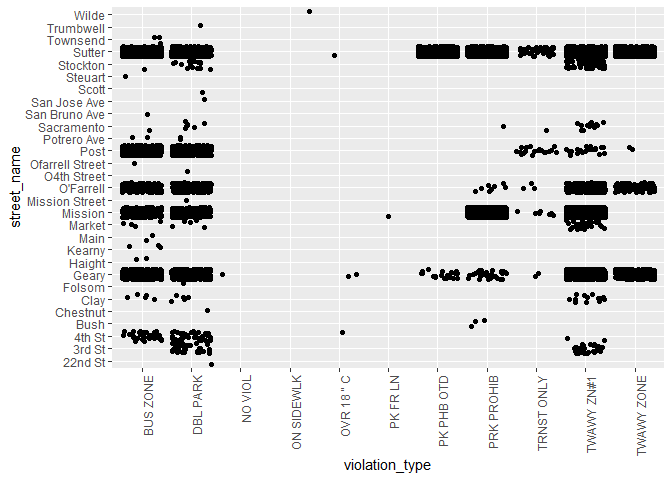
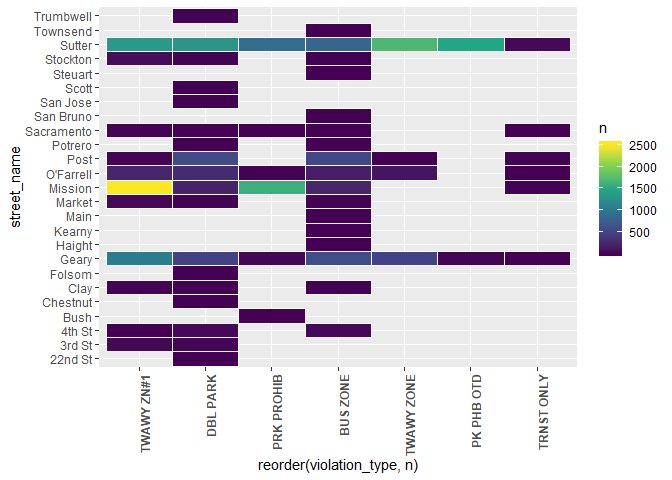
Package string cleaning code into a function

diff --git a/muni_transitLanes/muni_transitLanes.md b/muni_transitLanes/muni_transitLanes.md
@@ -4,6 +4,7 @@ Anthony Chau
 07-10-2018
 
 ``` r
+# Use read_csv from readr package (Faster, more reproducible, tibbles)
 muni <- read.csv('muni_transitLanes.csv', strip.white = TRUE)
 muni <- as.data.frame(muni)
 
@@ -20,7 +21,7 @@ First, we remove the Citation.Issue.Month column from the data frame since the m
 ``` r
 muni$Citaton.Issue.Month <- NULL
 muni$Last.Edited.Date <- NULL
-muni$Ticket.Number <-  NULL
+muni$Ticket.Number <- NULL
 ```
 
 Check for Missing Values
@@ -28,6 +29,7 @@ Check for Missing Values
 
 ``` r
 # Check for NA values for each column
+
 apply(muni, 2, function(x) any(is.na(x)))
 ```
 
@@ -41,6 +43,9 @@ apply(muni, 2, function(x) any(is.na(x)))
     ##                FALSE                FALSE                FALSE 
     ##   Suspend.Until.Date     Disposition.Code                 Geom 
     ##                FALSE                FALSE                FALSE
+
+Date and Time
+=============
 
 Now, let's focus our attention on the date and time data within this dataset.
 
@@ -62,13 +67,52 @@ muni$Citation.Issue.Date <- NULL
 muni$Citation.Issue.Time <- NULL
 ```
 
-We want to collaspe observations in the location column to only record a unique factor level for a street name.
+Extract unique street names from location column
+================================================
+
+We create a new column which consists of only the street name where the violation occured. In the original datset, the location column provided both the street number and street name. As a result, we have an extremely high amount of factor levels for the location column. Hence, we will condense down the number of factor levels to the total number of unique street names.
 
 ``` r
 library(stringr)
 ```
 
     ## Warning: package 'stringr' was built under R version 3.4.4
+
+``` r
+get_streetName <-  function(df, location_column){
+  location_column <- as.character(location_column)
+  splitLocation <- strsplit(location_column, "(?<=\\d)\\b", perl=T)
+  y <- do.call(rbind, splitLocation)
+  y <- as.data.frame(y)
+  colnames(y) <- c('street_number', 'street_name')
+  df$street_name <- y$street_name
+  return(unique(df$street_name))
+}
+
+get_streetName(muni, muni$Location)
+```
+
+    ##  [1]  O'FARRELL         GEARY             OFARRELL        
+    ##  [4]  MISSION           POST ST           GEARY ST        
+    ##  [7]  3RD ST            SUTTER            O'FARRELL ST.   
+    ## [10]  SACRAMENTO        MISSION ST.       MAIN            
+    ## [13]  - 3RD ST.         CLAY              STOCKTON        
+    ## [16]  MISSION ST        POST              4TH ST.         
+    ## [19]  MARKET            O'FARRELL STREET  GEARY ST.       
+    ## [22]  OFALLELL          4TH ST            OFARRELL ST     
+    ## [25]  SUTTER ST         04TH ST           STOCKTON ST     
+    ## [28]  O'FARRELL ST      04TH  ST          - O'FARRELL ST  
+    ## [31]  SACRAMENTO ST     03RD ST           - 4TH ST        
+    ## [34]  -4TH ST           - GEARY ST        O4TH STREET     
+    ## [37] -MARKET ST         POTRERO AVE       MISSION STREET  
+    ## [40]  MARKET ST         GEARY BLVD        SAN BRUNO AVE   
+    ## [43]  22ND ST           CLAY ST           HAIGHT ST       
+    ## [46]  TOWNSEND ST       SAN JOSE AVE      STEUART ST      
+    ## [49]  SCOTT ST          CHESTNUT ST       KEARNY ST       
+    ## [52]  STOCKTON TUNL     FOLSOM            BUSH ST         
+    ## [55]  TRUMBWELL         WILDE             3RD ST.         
+    ## [58]  KEARNY            SUTTER ST.      
+    ## 59 Levels: -MARKET ST  - 3RD ST.  - 4TH ST  - GEARY ST ...  WILDE
 
 ``` r
 muni$Location <- as.character(muni$Location)
@@ -143,6 +187,8 @@ unique(muni$street_name)
 Clean up street names
 =====================
 
+In the newly created street\_name column, we remove unnecessary puncation or white space within the different factor levels and remove the street type from each factor level. Lastly, we convert each street name to title style capitalization.
+
 ``` r
 # To extend functionality, can make it so that any street type will be converted to 
 # empty string
@@ -166,8 +212,6 @@ locationName_clean <- function(location){
 
 muni$street_name <- locationName_clean(muni$street_name)
 
-# bug -> need to apply function twice to acheive desired result
-
 # Check
 unique(muni$street_name)
 ```
@@ -181,6 +225,11 @@ unique(muni$street_name)
     ## [31] "Wilde"
 
 Clean up minor spelling mistakes
+================================
+
+Some of the street names in the dataset are misspelled. We manually correct these mistakes by reassigning observations with misspelling to the correct spelling.
+
+For this analysis, I have decided to remove the street type indicator from non-duplicate street names. Beacuse of this, only numerical street names, such as 4th or 22nd, have street type indicators.
 
 ``` r
 # Clean up spelling and duplicates of street names
@@ -198,7 +247,6 @@ muni$street_name[muni$street_name %in% c("Po")] <- "Post"
 
 # Change street_name to factor variable
 muni$street_name <- factor(muni$street_name)
-
 
 # Check
 unique(muni$street_name)
@@ -219,17 +267,6 @@ library(dplyr)
 
     ## Warning: package 'dplyr' was built under R version 3.4.4
 
-    ## 
-    ## Attaching package: 'dplyr'
-
-    ## The following objects are masked from 'package:stats':
-    ## 
-    ##     filter, lag
-
-    ## The following objects are masked from 'package:base':
-    ## 
-    ##     intersect, setdiff, setequal, union
-
 ``` r
 library(ggplot2)
 ```
@@ -241,21 +278,6 @@ library(plotly)
 ```
 
     ## Warning: package 'plotly' was built under R version 3.4.4
-
-    ## 
-    ## Attaching package: 'plotly'
-
-    ## The following object is masked from 'package:ggplot2':
-    ## 
-    ##     last_plot
-
-    ## The following object is masked from 'package:stats':
-    ## 
-    ##     filter
-
-    ## The following object is masked from 'package:graphics':
-    ## 
-    ##     layout
 
 Exploring Transit Lane Violation Types
 
@@ -334,7 +356,7 @@ streetBarPlot <- ggplot(data=muni, aes(x=street_name)) +
 streetBarPlot
 ```
 
-![](muni_transitLanes_files/figure-markdown_github/unnamed-chunk-13-1.png)
+![](muni_transitLanes_files/figure-markdown_github/unnamed-chunk-9-1.png)
 
 We find that most transit lane violations are concentrated on a few streets: Geary, Market, Mission, Folsom, Stockton, and Sutter. Almost all of these pass through downtown San Francisco, which is plausible since many bus services aggregate in downtown.
 
@@ -359,9 +381,9 @@ violations <- ggplot(data=muni, aes(x=violation_type)) +
 violations
 ```
 
-![](muni_transitLanes_files/figure-markdown_github/unnamed-chunk-14-1.png)
+![](muni_transitLanes_files/figure-markdown_github/unnamed-chunk-10-1.png)
 
-Most violation types are towaway zone and towaway zone \#1. There are few on sidewalk and OVR 18\*C violations. As there are few no violations. Need more information on how specific violation types are defined.
+Most violation types are towaway zone and towaway zone \#1. There are few observations of the on sidewalk, OVR 18\*C violations, and no violation type. Need more information on how specific violation types are defined.
 
 Violations - Count Plot
 
@@ -374,7 +396,7 @@ violationsCountPlot <- ggplot(data=muni)+
 violationsCountPlot
 ```
 
-![](muni_transitLanes_files/figure-markdown_github/unnamed-chunk-15-1.png)
+![](muni_transitLanes_files/figure-markdown_github/unnamed-chunk-11-1.png)
 
 Violations by Street Name - Tile Plot (possibly do a heat map with d3heatmap or heatmaply)
 
@@ -395,7 +417,7 @@ muni %>%
           panel.border = element_blank())
 ```
 
-![](muni_transitLanes_files/figure-markdown_github/unnamed-chunk-16-1.png)
+![](muni_transitLanes_files/figure-markdown_github/unnamed-chunk-12-1.png)
 
 Heatmap - Plotly
 
@@ -414,7 +436,7 @@ p
 
 <!--html_preserve-->
 
-<script type="application/json" data-for="htmlwidget-c725baf449171f9e59bf">{"x":{"visdat":{"4b8c11663b50":["function () ","plotlyVisDat"]},"cur_data":"4b8c11663b50","attrs":{"4b8c11663b50":{"z":[[0,1,0,0,0,0,0,0,0,0,0],[0,30,0,0,0,0,0,0,0,35,0],[34,42,0,0,0,0,0,0,0,2,0],[0,0,0,0,0,0,0,3,0,0,0],[0,1,0,0,0,0,0,0,0,0,0],[5,6,0,0,0,0,0,0,0,13,0],[0,1,0,0,0,0,0,0,0,0,0],[598,488,0,0,0,0,20,30,2,1054,498],[2,0,0,0,0,0,0,0,0,0,0],[3,0,0,0,0,0,0,0,0,0,0],[2,0,0,0,0,0,0,0,0,0,0],[4,6,0,0,0,0,0,0,0,34,0],[228,213,0,0,0,0,0,1599,8,2513,0],[180,290,0,0,0,0,0,8,3,225,110],[541,573,0,0,0,0,0,0,19,20,2],[2,2,0,0,0,0,0,0,0,0,0],[1,7,0,0,0,0,0,1,1,13,0],[1,0,0,0,0,0,0,0,0,0,0],[0,1,0,0,0,0,0,0,0,0,0],[0,1,0,0,0,0,0,0,0,0,0],[1,0,0,0,0,0,0,0,0,0,0],[1,15,0,0,0,0,0,0,0,58,0],[827,1317,0,0,0,0,1478,894,37,1367,1695],[3,0,0,0,0,0,0,0,0,0,0],[0,1,0,0,0,0,0,0,0,0,0],[0,0,0,0,0,0,0,0,0,0,0]],"x":["22nd St","3rd St","4th St","Bush","Chestnut","Clay","Folsom","Geary","Haight","Kearny","Main","Market","Mission","O'Farrell","Post","Potrero","Sacramento","San Bruno","San Jose","Scott","Steuart","Stockton","Sutter","Townsend","Trumbwell","Wilde"],"y":["BUS ZONE","DBL PARK","NO VIOL","ON SIDEWLK","OVR 18 \" C","PK FR LN","PK PHB OTD","PRK PROHIB","TRNST ONLY","TWAWY ZN#1","TWAWY ZONE"],"alpha_stroke":1,"sizes":[10,100],"spans":[1,20],"type":"heatmap"}},"layout":{"margin":{"b":40,"l":60,"t":25,"r":10},"xaxis":{"domain":[0,1],"automargin":true,"title":[]},"yaxis":{"domain":[0,1],"automargin":true,"title":[]},"scene":{"zaxis":{"title":[]}},"hovermode":"closest","showlegend":false,"legend":{"yanchor":"top","y":0.5}},"source":"A","config":{"modeBarButtonsToAdd":[{"name":"Collaborate","icon":{"width":1000,"ascent":500,"descent":-50,"path":"M487 375c7-10 9-23 5-36l-79-259c-3-12-11-23-22-31-11-8-22-12-35-12l-263 0c-15 0-29 5-43 15-13 10-23 23-28 37-5 13-5 25-1 37 0 0 0 3 1 7 1 5 1 8 1 11 0 2 0 4-1 6 0 3-1 5-1 6 1 2 2 4 3 6 1 2 2 4 4 6 2 3 4 5 5 7 5 7 9 16 13 26 4 10 7 19 9 26 0 2 0 5 0 9-1 4-1 6 0 8 0 2 2 5 4 8 3 3 5 5 5 7 4 6 8 15 12 26 4 11 7 19 7 26 1 1 0 4 0 9-1 4-1 7 0 8 1 2 3 5 6 8 4 4 6 6 6 7 4 5 8 13 13 24 4 11 7 20 7 28 1 1 0 4 0 7-1 3-1 6-1 7 0 2 1 4 3 6 1 1 3 4 5 6 2 3 3 5 5 6 1 2 3 5 4 9 2 3 3 7 5 10 1 3 2 6 4 10 2 4 4 7 6 9 2 3 4 5 7 7 3 2 7 3 11 3 3 0 8 0 13-1l0-1c7 2 12 2 14 2l218 0c14 0 25-5 32-16 8-10 10-23 6-37l-79-259c-7-22-13-37-20-43-7-7-19-10-37-10l-248 0c-5 0-9-2-11-5-2-3-2-7 0-12 4-13 18-20 41-20l264 0c5 0 10 2 16 5 5 3 8 6 10 11l85 282c2 5 2 10 2 17 7-3 13-7 17-13z m-304 0c-1-3-1-5 0-7 1-1 3-2 6-2l174 0c2 0 4 1 7 2 2 2 4 4 5 7l6 18c0 3 0 5-1 7-1 1-3 2-6 2l-173 0c-3 0-5-1-8-2-2-2-4-4-4-7z m-24-73c-1-3-1-5 0-7 2-2 3-2 6-2l174 0c2 0 5 0 7 2 3 2 4 4 5 7l6 18c1 2 0 5-1 6-1 2-3 3-5 3l-174 0c-3 0-5-1-7-3-3-1-4-4-5-6z"},"click":"function(gd) { \n        // is this being viewed in RStudio?\n        if (location.search == '?viewer_pane=1') {\n          alert('To learn about plotly for collaboration, visit:\\n https://cpsievert.github.io/plotly_book/plot-ly-for-collaboration.html');\n        } else {\n          window.open('https://cpsievert.github.io/plotly_book/plot-ly-for-collaboration.html', '_blank');\n        }\n      }"}],"cloud":false},"data":[{"colorbar":{"title":"","ticklen":2,"len":0.5,"lenmode":"fraction","y":1,"yanchor":"top"},"colorscale":[["0","rgba(68,1,84,1)"],["0","rgba(68,1,84,1)"],["0","rgba(68,1,84,1)"],["0","rgba(68,1,84,1)"],["0","rgba(68,1,84,1)"],["0","rgba(68,1,84,1)"],["0","rgba(68,1,84,1)"],["0","rgba(68,1,84,1)"],["0","rgba(68,1,84,1)"],["0","rgba(68,1,84,1)"],["0","rgba(68,1,84,1)"],["0","rgba(68,1,84,1)"],["0","rgba(68,1,84,1)"],["0","rgba(68,1,84,1)"],["0","rgba(68,1,84,1)"],["0","rgba(68,1,84,1)"],["0","rgba(68,1,84,1)"],["0","rgba(68,1,84,1)"],["0","rgba(68,1,84,1)"],["0.000397930760047752","rgba(68,1,84,1)"],["0.000795861520095503","rgba(68,1,84,1)"],["0.00293473935535217","rgba(68,2,85,1)"],["0.0136291285316355","rgba(69,7,88,1)"],["0.200308396339037","rgba(65,68,134,1)"],["1","rgba(253,231,37,1)"]],"showscale":true,"z":[[0,1,0,0,0,0,0,0,0,0,0],[0,30,0,0,0,0,0,0,0,35,0],[34,42,0,0,0,0,0,0,0,2,0],[0,0,0,0,0,0,0,3,0,0,0],[0,1,0,0,0,0,0,0,0,0,0],[5,6,0,0,0,0,0,0,0,13,0],[0,1,0,0,0,0,0,0,0,0,0],[598,488,0,0,0,0,20,30,2,1054,498],[2,0,0,0,0,0,0,0,0,0,0],[3,0,0,0,0,0,0,0,0,0,0],[2,0,0,0,0,0,0,0,0,0,0],[4,6,0,0,0,0,0,0,0,34,0],[228,213,0,0,0,0,0,1599,8,2513,0],[180,290,0,0,0,0,0,8,3,225,110],[541,573,0,0,0,0,0,0,19,20,2],[2,2,0,0,0,0,0,0,0,0,0],[1,7,0,0,0,0,0,1,1,13,0],[1,0,0,0,0,0,0,0,0,0,0],[0,1,0,0,0,0,0,0,0,0,0],[0,1,0,0,0,0,0,0,0,0,0],[1,0,0,0,0,0,0,0,0,0,0],[1,15,0,0,0,0,0,0,0,58,0],[827,1317,0,0,0,0,1478,894,37,1367,1695],[3,0,0,0,0,0,0,0,0,0,0],[0,1,0,0,0,0,0,0,0,0,0],[0,0,0,0,0,0,0,0,0,0,0]],"x":["22nd St","3rd St","4th St","Bush","Chestnut","Clay","Folsom","Geary","Haight","Kearny","Main","Market","Mission","O'Farrell","Post","Potrero","Sacramento","San Bruno","San Jose","Scott","Steuart","Stockton","Sutter","Townsend","Trumbwell","Wilde"],"y":["BUS ZONE","DBL PARK","NO VIOL","ON SIDEWLK","OVR 18 \" C","PK FR LN","PK PHB OTD","PRK PROHIB","TRNST ONLY","TWAWY ZN#1","TWAWY ZONE"],"type":"heatmap","xaxis":"x","yaxis":"y","frame":null}],"highlight":{"on":"plotly_click","persistent":false,"dynamic":false,"selectize":false,"opacityDim":0.2,"selected":{"opacity":1},"debounce":0},"base_url":"https://plot.ly"},"evals":["config.modeBarButtonsToAdd.0.click"],"jsHooks":[]}</script>
+<script type="application/json" data-for="htmlwidget-d3c79b650051c99cd79b">{"x":{"visdat":{"c5431311e5b":["function () ","plotlyVisDat"]},"cur_data":"c5431311e5b","attrs":{"c5431311e5b":{"z":[[0,1,0,0,0,0,0,0,0,0,0],[0,30,0,0,0,0,0,0,0,35,0],[34,42,0,0,0,0,0,0,0,2,0],[0,0,0,0,0,0,0,3,0,0,0],[0,1,0,0,0,0,0,0,0,0,0],[5,6,0,0,0,0,0,0,0,13,0],[0,1,0,0,0,0,0,0,0,0,0],[598,488,0,0,0,0,20,30,2,1054,498],[2,0,0,0,0,0,0,0,0,0,0],[3,0,0,0,0,0,0,0,0,0,0],[2,0,0,0,0,0,0,0,0,0,0],[4,6,0,0,0,0,0,0,0,34,0],[228,213,0,0,0,0,0,1599,8,2513,0],[180,290,0,0,0,0,0,8,3,225,110],[541,573,0,0,0,0,0,0,19,20,2],[2,2,0,0,0,0,0,0,0,0,0],[1,7,0,0,0,0,0,1,1,13,0],[1,0,0,0,0,0,0,0,0,0,0],[0,1,0,0,0,0,0,0,0,0,0],[0,1,0,0,0,0,0,0,0,0,0],[1,0,0,0,0,0,0,0,0,0,0],[1,15,0,0,0,0,0,0,0,58,0],[827,1317,0,0,0,0,1478,894,37,1367,1695],[3,0,0,0,0,0,0,0,0,0,0],[0,1,0,0,0,0,0,0,0,0,0],[0,0,0,0,0,0,0,0,0,0,0]],"x":["22nd St","3rd St","4th St","Bush","Chestnut","Clay","Folsom","Geary","Haight","Kearny","Main","Market","Mission","O'Farrell","Post","Potrero","Sacramento","San Bruno","San Jose","Scott","Steuart","Stockton","Sutter","Townsend","Trumbwell","Wilde"],"y":["BUS ZONE","DBL PARK","NO VIOL","ON SIDEWLK","OVR 18 \" C","PK FR LN","PK PHB OTD","PRK PROHIB","TRNST ONLY","TWAWY ZN#1","TWAWY ZONE"],"alpha_stroke":1,"sizes":[10,100],"spans":[1,20],"type":"heatmap"}},"layout":{"margin":{"b":40,"l":60,"t":25,"r":10},"xaxis":{"domain":[0,1],"automargin":true,"title":[]},"yaxis":{"domain":[0,1],"automargin":true,"title":[]},"scene":{"zaxis":{"title":[]}},"hovermode":"closest","showlegend":false,"legend":{"yanchor":"top","y":0.5}},"source":"A","config":{"modeBarButtonsToAdd":[{"name":"Collaborate","icon":{"width":1000,"ascent":500,"descent":-50,"path":"M487 375c7-10 9-23 5-36l-79-259c-3-12-11-23-22-31-11-8-22-12-35-12l-263 0c-15 0-29 5-43 15-13 10-23 23-28 37-5 13-5 25-1 37 0 0 0 3 1 7 1 5 1 8 1 11 0 2 0 4-1 6 0 3-1 5-1 6 1 2 2 4 3 6 1 2 2 4 4 6 2 3 4 5 5 7 5 7 9 16 13 26 4 10 7 19 9 26 0 2 0 5 0 9-1 4-1 6 0 8 0 2 2 5 4 8 3 3 5 5 5 7 4 6 8 15 12 26 4 11 7 19 7 26 1 1 0 4 0 9-1 4-1 7 0 8 1 2 3 5 6 8 4 4 6 6 6 7 4 5 8 13 13 24 4 11 7 20 7 28 1 1 0 4 0 7-1 3-1 6-1 7 0 2 1 4 3 6 1 1 3 4 5 6 2 3 3 5 5 6 1 2 3 5 4 9 2 3 3 7 5 10 1 3 2 6 4 10 2 4 4 7 6 9 2 3 4 5 7 7 3 2 7 3 11 3 3 0 8 0 13-1l0-1c7 2 12 2 14 2l218 0c14 0 25-5 32-16 8-10 10-23 6-37l-79-259c-7-22-13-37-20-43-7-7-19-10-37-10l-248 0c-5 0-9-2-11-5-2-3-2-7 0-12 4-13 18-20 41-20l264 0c5 0 10 2 16 5 5 3 8 6 10 11l85 282c2 5 2 10 2 17 7-3 13-7 17-13z m-304 0c-1-3-1-5 0-7 1-1 3-2 6-2l174 0c2 0 4 1 7 2 2 2 4 4 5 7l6 18c0 3 0 5-1 7-1 1-3 2-6 2l-173 0c-3 0-5-1-8-2-2-2-4-4-4-7z m-24-73c-1-3-1-5 0-7 2-2 3-2 6-2l174 0c2 0 5 0 7 2 3 2 4 4 5 7l6 18c1 2 0 5-1 6-1 2-3 3-5 3l-174 0c-3 0-5-1-7-3-3-1-4-4-5-6z"},"click":"function(gd) { \n        // is this being viewed in RStudio?\n        if (location.search == '?viewer_pane=1') {\n          alert('To learn about plotly for collaboration, visit:\\n https://cpsievert.github.io/plotly_book/plot-ly-for-collaboration.html');\n        } else {\n          window.open('https://cpsievert.github.io/plotly_book/plot-ly-for-collaboration.html', '_blank');\n        }\n      }"}],"cloud":false},"data":[{"colorbar":{"title":"","ticklen":2,"len":0.5,"lenmode":"fraction","y":1,"yanchor":"top"},"colorscale":[["0","rgba(68,1,84,1)"],["0","rgba(68,1,84,1)"],["0","rgba(68,1,84,1)"],["0","rgba(68,1,84,1)"],["0","rgba(68,1,84,1)"],["0","rgba(68,1,84,1)"],["0","rgba(68,1,84,1)"],["0","rgba(68,1,84,1)"],["0","rgba(68,1,84,1)"],["0","rgba(68,1,84,1)"],["0","rgba(68,1,84,1)"],["0","rgba(68,1,84,1)"],["0","rgba(68,1,84,1)"],["0","rgba(68,1,84,1)"],["0","rgba(68,1,84,1)"],["0","rgba(68,1,84,1)"],["0","rgba(68,1,84,1)"],["0","rgba(68,1,84,1)"],["0","rgba(68,1,84,1)"],["0.000397930760047752","rgba(68,1,84,1)"],["0.000795861520095503","rgba(68,1,84,1)"],["0.00293473935535217","rgba(68,2,85,1)"],["0.0136291285316355","rgba(69,7,88,1)"],["0.200308396339037","rgba(65,68,134,1)"],["1","rgba(253,231,37,1)"]],"showscale":true,"z":[[0,1,0,0,0,0,0,0,0,0,0],[0,30,0,0,0,0,0,0,0,35,0],[34,42,0,0,0,0,0,0,0,2,0],[0,0,0,0,0,0,0,3,0,0,0],[0,1,0,0,0,0,0,0,0,0,0],[5,6,0,0,0,0,0,0,0,13,0],[0,1,0,0,0,0,0,0,0,0,0],[598,488,0,0,0,0,20,30,2,1054,498],[2,0,0,0,0,0,0,0,0,0,0],[3,0,0,0,0,0,0,0,0,0,0],[2,0,0,0,0,0,0,0,0,0,0],[4,6,0,0,0,0,0,0,0,34,0],[228,213,0,0,0,0,0,1599,8,2513,0],[180,290,0,0,0,0,0,8,3,225,110],[541,573,0,0,0,0,0,0,19,20,2],[2,2,0,0,0,0,0,0,0,0,0],[1,7,0,0,0,0,0,1,1,13,0],[1,0,0,0,0,0,0,0,0,0,0],[0,1,0,0,0,0,0,0,0,0,0],[0,1,0,0,0,0,0,0,0,0,0],[1,0,0,0,0,0,0,0,0,0,0],[1,15,0,0,0,0,0,0,0,58,0],[827,1317,0,0,0,0,1478,894,37,1367,1695],[3,0,0,0,0,0,0,0,0,0,0],[0,1,0,0,0,0,0,0,0,0,0],[0,0,0,0,0,0,0,0,0,0,0]],"x":["22nd St","3rd St","4th St","Bush","Chestnut","Clay","Folsom","Geary","Haight","Kearny","Main","Market","Mission","O'Farrell","Post","Potrero","Sacramento","San Bruno","San Jose","Scott","Steuart","Stockton","Sutter","Townsend","Trumbwell","Wilde"],"y":["BUS ZONE","DBL PARK","NO VIOL","ON SIDEWLK","OVR 18 \" C","PK FR LN","PK PHB OTD","PRK PROHIB","TRNST ONLY","TWAWY ZN#1","TWAWY ZONE"],"type":"heatmap","xaxis":"x","yaxis":"y","frame":null}],"highlight":{"on":"plotly_click","persistent":false,"dynamic":false,"selectize":false,"opacityDim":0.2,"selected":{"opacity":1},"debounce":0},"base_url":"https://plot.ly"},"evals":["config.modeBarButtonsToAdd.0.click"],"jsHooks":[]}</script>
 <!--/html_preserve-->
 Violations by Street Name - Jitter plot
 
@@ -426,7 +448,7 @@ violations_jitter <- ggplot(data = muni) +
 violations_jitter
 ```
 
-![](muni_transitLanes_files/figure-markdown_github/unnamed-chunk-18-1.png)
+![](muni_transitLanes_files/figure-markdown_github/unnamed-chunk-14-1.png)
 
 Violations - Pie Chart
 
@@ -445,7 +467,7 @@ pie <- ggplot(muni, aes(x = "", fill = factor(violation_type))) +
 pie + coord_polar(theta = "y", start=0)
 ```
 
-![](muni_transitLanes_files/figure-markdown_github/unnamed-chunk-19-1.png)
+![](muni_transitLanes_files/figure-markdown_github/unnamed-chunk-15-1.png)
 
 Time Series visualization test Account for dates with no citation Make dates with sequence function between earliest date and latest date \# try missing\_values &lt;- date\[!date in% sequence\]
 
@@ -487,4 +509,4 @@ citation_ts <- ts(citation_count, frequency = 7, start= c(2008,2))
 plot.ts(citation_ts)
 ```
 
-![](muni_transitLanes_files/figure-markdown_github/unnamed-chunk-20-1.png)
+![](muni_transitLanes_files/figure-markdown_github/unnamed-chunk-16-1.png)
